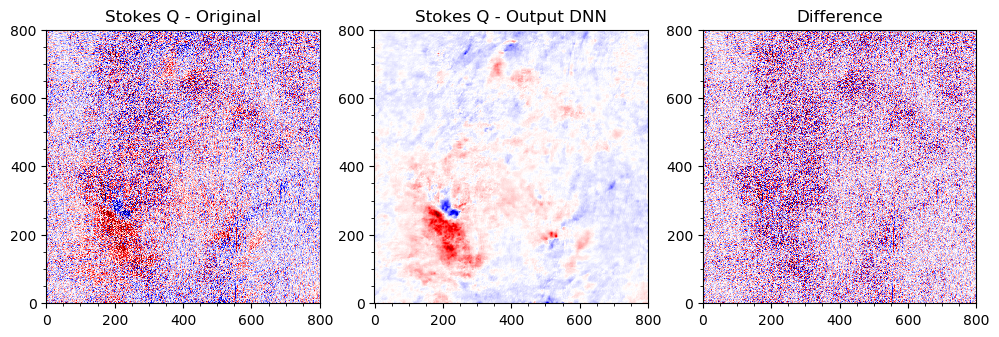
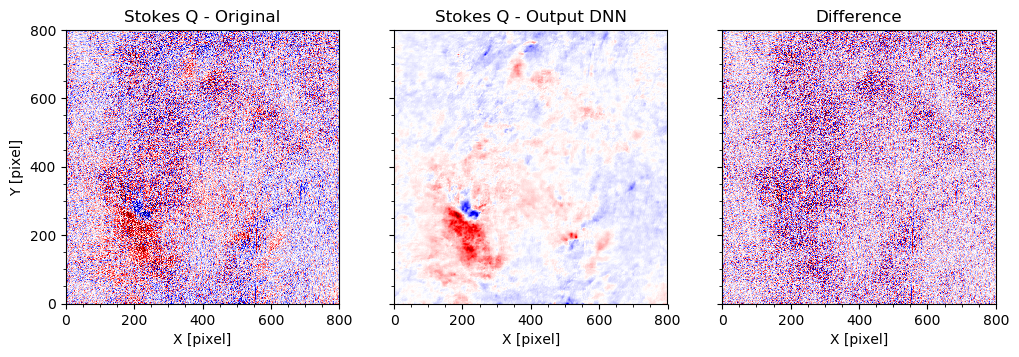
updating readme

diff --git a/prediction_sst.py b/prediction_sst.py
@@ -3,7 +3,6 @@ import platform
 import os
 import time
 import argparse
-# from astropy.io import fits
 import warnings
 with warnings.catch_warnings():
     warnings.filterwarnings("ignore",category=FutureWarning)
@@ -26,7 +25,6 @@ if reducecore:
     ncores = 2
     from keras import backend as K
     K.set_session(K.tf.Session(config=K.tf.ConfigProto(intra_op_parallelism_threads=ncores, inter_op_parallelism_threads=ncores)))
-
 
 
 class deep_network(object):
@@ -75,17 +73,17 @@ class deep_network(object):
         plt.subplot(131)
         plt.title('Stokes Q - Original')
         plt.imshow(ima,cmap='seismic',origin='lower',interpolation='None',vmin=-medio,vmax=+medio)
-        plt.minorticks_on(); plt.locator_params(axis='y', nbins=4)
+        plt.minorticks_on(); plt.locator_params(axis='y', nbins=4); plt.ylabel('Y [pixel]'); plt.xlabel('X [pixel]')
         plt.subplot(132)
         plt.title('Stokes Q - Output DNN')
         plt.imshow(out[0,:,:,0],cmap='seismic',vmin=-medio,vmax=+medio,origin='lower',interpolation='None')
-        plt.minorticks_on(); plt.locator_params(axis='y', nbins=4)
+        plt.minorticks_on(); plt.locator_params(axis='y', nbins=4); plt.xlabel('X [pixel]'); plt.tick_params(axis='y',labelleft=False)
         plt.subplot(133)
         plt.title('Difference')
         plt.imshow(ima-out[0,:,:,0],cmap='seismic',vmin=-medio,vmax=+medio,origin='lower',interpolation='None')        
-        plt.minorticks_on(); plt.locator_params(axis='y', nbins=4)
+        plt.minorticks_on(); plt.locator_params(axis='y', nbins=4); plt.xlabel('X [pixel]'); plt.tick_params(axis='y',labelleft=False)
         plt.savefig('docs/prediction'+str(self.number)+'.png',bbox_inches='tight')
-
+        plt.tight_layout()
         np.save('output/prediction_sst.npy',out[0,:,:,0])
 
 
@@ -98,19 +96,7 @@ if (__name__ == '__main__'):
     parser.add_argument('-m','--model', help='model', default='weights/network_sst')
     parsed = vars(parser.parse_args())
 
-    # f = fits.open(parsed['input'])
-    # dire = parsed['dir']
-    # print('Dir:'+dire)
-    # input_file = dire+'database_test.h5'
-    # f = h5py.File(input_file, 'r')
-    # ntx, nx, ny, nlambda = f['stokes'].shape
-    # nindex = 1
-    # imgs = f['stokes'][nindex:nindex+1,:,:,:].astype('float32')
-    # ntx, nx, ny, nq = f['cube'].shape        
-    # # salida = f['cube'][0:1,:,:,:].astype('float32')
-    # f.close()
-    # from train import generaflat
-    
+    # Example to clean
     imgs = np.load('example_sst.npy')
 
     out = deep_network(parsed['model'],parsed['output'],parsed['number'])
@@ -119,10 +105,6 @@ if (__name__ == '__main__'):
     # To avoid the TF_DeleteStatus message:
     # https://github.com/tensorflow/tensorflow/issues/3388
     ktf.clear_session()
-
-    # os.system('python3 plot3Ddef.py -dir '+dire)
-    # os.system('python3 plotError.py')
-
 
 
 

diff --git a/README.md b/README.md
@@ -9,3 +9,9 @@ We have designed a neural network that is capable of recovering weak signals und
 ## Abstract
 
 The topology and dynamics of the solar chromosphere are dominated by magnetic fields. The latter can be inferred by analyzing polarimetric observations of spectral lines. However, polarimetric signals induced by chromospheric magnetic fields are particularly weak, and in most cases very close to the detection limit of current instrumentation. Therefore there are few observational studies that have successfully reconstructed the three components of the magnetic field vector in the chromosphere. Traditionally, the signal-to-noise ratio of observations has been improved by performing time-averages or spatial averages, but in both cases some information is lost. More advanced techniques, like Principal-component-analysis, have also been employed to take advantage of the sparsity of the observations in the spectral direction. In the present study, we propose to use the spatial coherence of the observations to reduce the noise using deep-learning techniques. We have designed a neural network that is capable of recovering weak signals under a complex noise corruption (including instrumental artifacts and non-linear post-processing). The training of the network is carried out without a priori knowledge of the clean signals, or an explicit statistical characterization of the noise or other corruption, only using the same observations as our generative model. Synthetic experiments are used to demonstrate the performance of this method. After that, we show examples of the improvement in typical signals obtained in current telescopes such as the Swedish 1-meter Solar Telescope.
+
+## Using this neural network for prediction
+
+A list of example command lines you can use with the pre-trained models provided in the GitHub releases. The script we provide reads the observations from a numpy file, but you can modify the script to provide the observations from any other file. Then you just type: `python prediction_sst.py` to infer the clean image.
+
+As this software was developed with some specific libraries you have to install: "keras" and "tensorflow". If `conda` is installed in your machine you can type:  `conda install tensorflow`, `conda install keras`. We only support keras v2.
